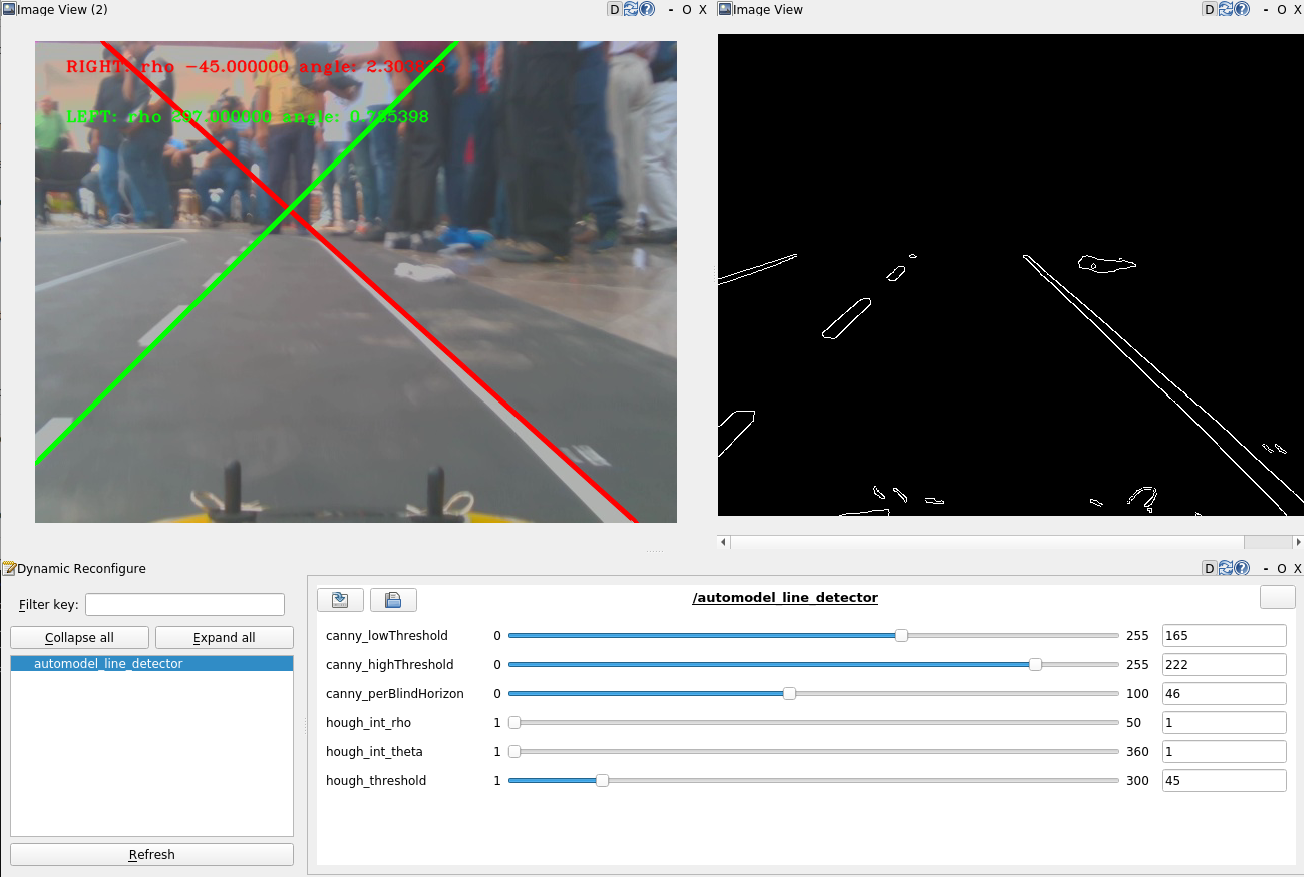
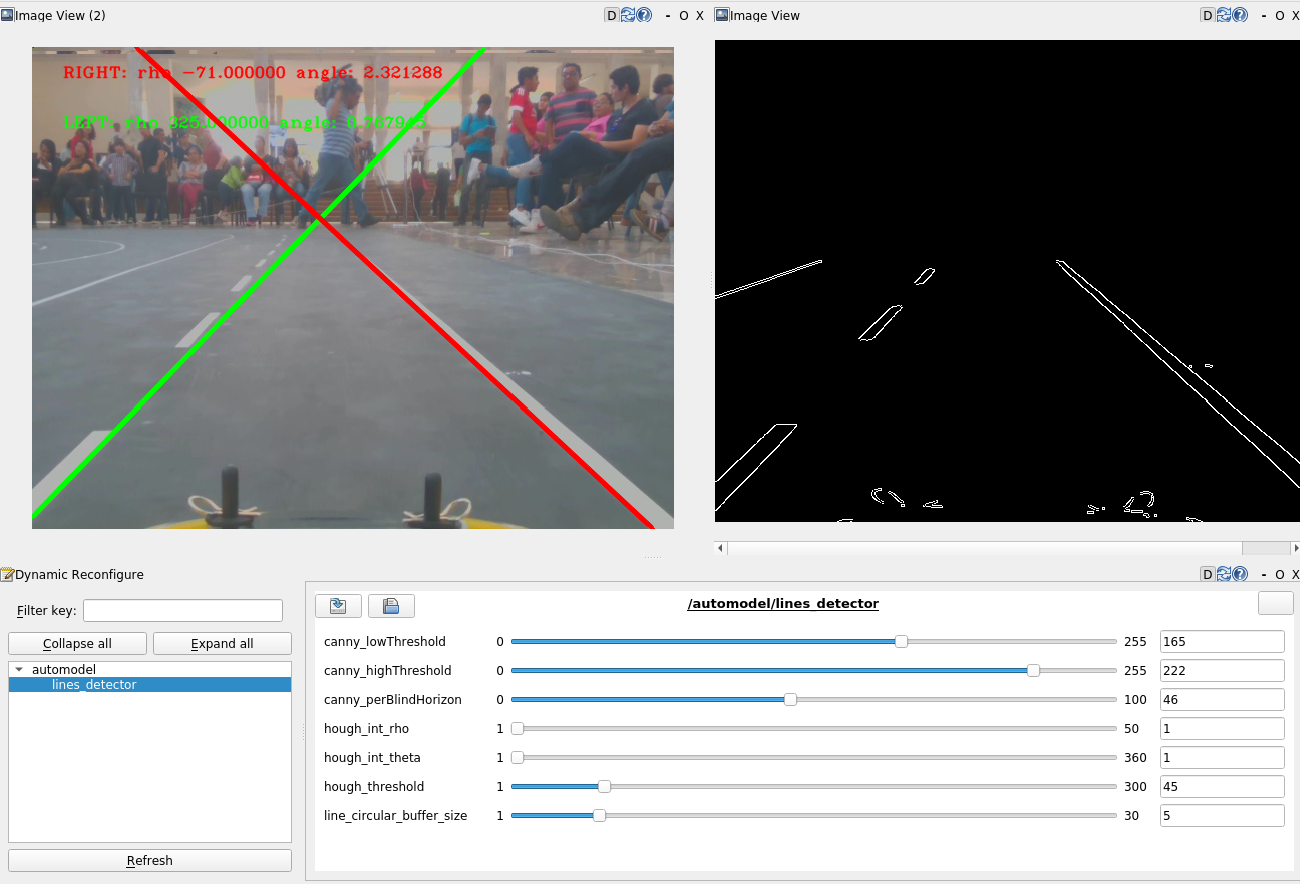
Enhanced organization of files and configurations as defined in good practices

diff --git a/src/lines_detector/src/lines_detector.cpp b/src/lines_detector/src/lines_detector.cpp
@@ -1,4 +1,4 @@
-// automodel_line_detector.cpp
+// lines_detector.cpp
 //
 // Implementation of the AutomodelLineDetector class.
 // Handles line detection using OpenCV and ROS.
@@ -6,7 +6,7 @@
 // Author: Abel Pacheco Ortega
 // Created: Mar 16, 2018
 
-#include "automodel_line_detector.hpp"
+#include "lines_detector.hpp"
 
 #include <image_transport/image_transport.h>
 #include <ros/package.h>
@@ -15,15 +15,15 @@
 #include "std_msgs/Float32MultiArray.h"
 
 namespace automodel {
-namespace line_detector {
+namespace lines_detector {
 
-AutomodelLineDetector::AutomodelLineDetector(ros::NodeHandle &nodeHandle)
+AutomodelLinesDetector::AutomodelLinesDetector(ros::NodeHandle &nodeHandle)
     : nh_(nodeHandle) {
   readParameters();
 
   image_transport::ImageTransport it(nh_);
   subscriber_ =
-      it.subscribe(image_topic_, 1, &AutomodelLineDetector::detect, this);
+      it.subscribe(image_topic_, 1, &AutomodelLinesDetector::detect, this);
 
   publisher_left_line_ = nh_.advertise<std_msgs::Float32MultiArray>("left", 1);
   publisher_right_line_ =
@@ -37,15 +37,14 @@ AutomodelLineDetector::AutomodelLineDetector(ros::NodeHandle &nodeHandle)
   cb_lines_right_ =
       boost::circular_buffer<cv::Vec2f>(line_circular_buffer_size_);
 
-  dynamic_reconfigure::Server<
-      automodel_line_detector::LineDetectorConfig>::CallbackType f;
+  dynamic_reconfigure::Server<dynamic::LinesDetectorConfig>::CallbackType f;
 
-  f = boost::bind(&AutomodelLineDetector::updateParameters, this, _1, _2);
+  f = boost::bind(&AutomodelLinesDetector::updateParameters, this, _1, _2);
   config_server_.setCallback(f);
 }
 
-void AutomodelLineDetector::updateParameters(
-    automodel_line_detector::LineDetectorConfig &config, uint32_t level) {
+void AutomodelLinesDetector::updateParameters(
+    dynamic::LinesDetectorConfig &config, uint32_t level) {
   // Update your internal parameters
   canny_percentage_horizon_ = config.canny_perBlindHorizon;
   canny_low_thresh_ = config.canny_lowThreshold;
@@ -61,11 +60,11 @@ void AutomodelLineDetector::updateParameters(
   }
 }
 
-AutomodelLineDetector::~AutomodelLineDetector() {
+AutomodelLinesDetector::~AutomodelLinesDetector() {
   ROS_INFO_STREAM("Destroying Automodel Line Detector");
 }
 
-void AutomodelLineDetector::detect(const sensor_msgs::ImageConstPtr &msg) {
+void AutomodelLinesDetector::detect(const sensor_msgs::ImageConstPtr &msg) {
   auto cv_ptr = cv_bridge::toCvCopy(msg, sensor_msgs::image_encodings::BGR8);
   cv::Mat imgColor = cv_ptr->image;
   cv::Mat imgMono;
@@ -79,7 +78,7 @@ void AutomodelLineDetector::detect(const sensor_msgs::ImageConstPtr &msg) {
   publishImageDetectedEdges(edges);
 }
 
-cv::Mat AutomodelLineDetector::preprocessImage(const cv::Mat &imgMono) {
+cv::Mat AutomodelLinesDetector::preprocessImage(const cv::Mat &imgMono) {
   cv::Mat maskWhite, maskedImage;
   inRange(imgMono, canny_low_thresh_, canny_high_thresh_, maskWhite);
   bitwise_and(imgMono, maskWhite, maskedImage);
@@ -94,7 +93,7 @@ cv::Mat AutomodelLineDetector::preprocessImage(const cv::Mat &imgMono) {
   return edges;
 }
 
-void AutomodelLineDetector::detectLines(const cv::Mat &edges) {
+void AutomodelLinesDetector::detectLines(const cv::Mat &edges) {
   rho_ = hough_int_rho_;
   theta_ = hough_int_theta_ * CV_PI / 180;
 
@@ -124,7 +123,7 @@ void AutomodelLineDetector::detectLines(const cv::Mat &edges) {
   if (!foundRight && !cb_lines_right_.empty()) cb_lines_right_.pop_front();
 }
 
-std::optional<cv::Vec2f> AutomodelLineDetector::computeAverageLine(
+std::optional<cv::Vec2f> AutomodelLinesDetector::computeAverageLine(
     const boost::circular_buffer<cv::Vec2f> &cbLines) const {
   if (cbLines.empty()) return std::nullopt;
 
@@ -136,7 +135,7 @@ std::optional<cv::Vec2f> AutomodelLineDetector::computeAverageLine(
   return cv::Vec2f(rho_sum / cbLines.size(), theta_sum / cbLines.size());
 }
 
-void AutomodelLineDetector::publishDetectedLines() {
+void AutomodelLinesDetector::publishDetectedLines() {
   auto publish_line = [](ros::Publisher &pub, const cv::Vec2f &detectedLine,
                          const std::string &label) {
     const float kRho = detectedLine[0];
@@ -162,7 +161,7 @@ void AutomodelLineDetector::publishDetectedLines() {
   }
 }
 
-void AutomodelLineDetector::publishImageDetectedLines(const cv::Mat &image) {
+void AutomodelLinesDetector::publishImageDetectedLines(const cv::Mat &image) {
   if (publisher_lines_image_.getNumSubscribers() == 0) return;
 
   cv::Mat imageColor = image.clone();
@@ -199,7 +198,7 @@ void AutomodelLineDetector::publishImageDetectedLines(const cv::Mat &image) {
   publisher_lines_image_.publish(imgMsg);
 }
 
-void AutomodelLineDetector::publishImageDetectedEdges(const cv::Mat &image) {
+void AutomodelLinesDetector::publishImageDetectedEdges(const cv::Mat &image) {
   if (publisher_edges_image_.getNumSubscribers() == 0) return;
 
   sensor_msgs::ImagePtr imgMsg =
@@ -209,7 +208,7 @@ void AutomodelLineDetector::publishImageDetectedEdges(const cv::Mat &image) {
   publisher_edges_image_.publish(imgMsg);
 }
 
-void AutomodelLineDetector::readParameters() {
+void AutomodelLinesDetector::readParameters() {
   nh_.param("image_topic", image_topic_, std::string("/camera/rgb/image_raw"));
   nh_.param("canny_lowThreshold", canny_low_thresh_, 172);
   nh_.param("canny_highThreshold", canny_high_thresh_, 179);
@@ -229,9 +228,9 @@ void AutomodelLineDetector::readParameters() {
   ROS_INFO_STREAM("Circular Buffer " << line_circular_buffer_size_);
 }
 
-void AutomodelLineDetector::saveParameters() {
-  std::string file = ros::package::getPath("automodel_line_detector") +
-                     "/config/config_new.yaml";
+void AutomodelLinesDetector::saveParameters() {
+  std::string file =
+      ros::package::getPath("lines_detector") + "/config/config_new.yaml";
   cv::FileStorage fs(file, cv::FileStorage::WRITE);
   fs << "image_topic" << image_topic_;
   fs << "canny_lowThreshold" << canny_low_thresh_;
@@ -245,5 +244,5 @@ void AutomodelLineDetector::saveParameters() {
   ROS_WARN_STREAM("File saved at " << file);
   ROS_WARN_STREAM("EDIT AND REPLACE to APPLY!");
 }
-}  // namespace line_detector
+}  // namespace lines_detector
 }  // namespace automodel

diff --git a/src/lines_detector/include/lines_detector.hpp b/src/lines_detector/include/lines_detector.hpp
@@ -1,4 +1,4 @@
-// automodel_line_detector.cpp
+// lines_detector.cpp
 // Header of the AutomodelLineDetector class for line detection using OpenCV and
 // ROS.
 //
@@ -7,21 +7,21 @@
 
 #pragma once
 
-#include <automodel_line_detector/LineDetectorConfig.h>  // auto-generated
 #include <dynamic_reconfigure/server.h>
 #include <image_transport/image_transport.h>
+#include <lines_detector/LinesDetectorConfig.h>  // auto-generated
 #include <ros/ros.h>
 
 #include <boost/circular_buffer.hpp>
 #include <opencv2/core.hpp>
 
 namespace automodel {
-namespace line_detector {
+namespace lines_detector {
 
-class AutomodelLineDetector {
+class AutomodelLinesDetector {
  public:
-  AutomodelLineDetector(ros::NodeHandle &nodeHandle);
-  virtual ~AutomodelLineDetector();
+  AutomodelLinesDetector(ros::NodeHandle &nodeHandle);
+  virtual ~AutomodelLinesDetector();
 
   void detect(const sensor_msgs::ImageConstPtr &);
 
@@ -62,11 +62,9 @@ class AutomodelLineDetector {
   image_transport::Publisher publisher_lines_image_;
   image_transport::Publisher publisher_edges_image_;
 
-  void updateParameters(automodel_line_detector::LineDetectorConfig &config,
-                        uint32_t level);
-  dynamic_reconfigure::Server<automodel_line_detector::LineDetectorConfig>
-      config_server_;
+  void updateParameters(dynamic::LinesDetectorConfig &config, uint32_t level);
+  dynamic_reconfigure::Server<dynamic::LinesDetectorConfig> config_server_;
 };
 
-}  // namespace line_detector
+}  // namespace lines_detector
 }  // namespace automodel

diff --git a/src/lines_detector/src/lines_detector_node.cpp b/src/lines_detector/src/lines_detector_node.cpp
@@ -3,20 +3,20 @@
 #include <iostream>
 #include <opencv2/opencv.hpp>
 
-#include "automodel_line_detector.hpp"
 #include "cv_bridge/cv_bridge.h"
+#include "lines_detector.hpp"
 #include "ros/ros.h"
 #include "sensor_msgs/Image.h"
 
-using namespace automodel::line_detector;
+using namespace automodel::lines_detector;
 
 int main(int argc, char **argv) {
-  ros::init(argc, argv, "automodel_line_detector_node");
+  ros::init(argc, argv, "lines_detector_node");
 
   // node handler
   ros::NodeHandle n("~");
 
-  AutomodelLineDetector lineDetector(n);
+  AutomodelLinesDetector lineDetector(n);
 
   ros::spin();
   return 0;

diff --git a/README.md b/README.md
@@ -1,4 +1,4 @@
-# Automodel line detector
+# Automodel lines detector
 
 <img src="doc/view.png" width="800">
 
@@ -33,15 +33,15 @@ This repository provides of a ROS prototype line detector that outputs vital pos
       rosrun video_publisher video_publisher_node _video_path:=[VIDEO_FILE]
       ```
 
-2. **automodel_line_detector**
+2. **automodel/lines_detector**
 
    Having a point of view (POV) frame, determines de left and right lines that marks the limits of a lane.
    - Published topic:
-     - */automodel/line_detector/left*
+     - */automodel/lines_detector/left*
 
        The detected left line  *sensor_msgs::ImagePtr* message
 
-     - */automodel/line_detector/right*
+     - */automodel/lines_detector/right*
 
        The detected right line  *sensor_msgs::ImagePtr* message
 
@@ -49,25 +49,25 @@ This repository provides of a ROS prototype line detector that outputs vital pos
 
      The parameters intialization is set in the *config/config.yaml* file
 
-     - */automodel/line_detector/image_topic*
+     - */automodel/lines_detector/image_topic*
      
        Determines de topic that is providing with the sequence of frames to analyze
 
 
-     - */automodel/line_detector/canny_lowThreshold* and */automodel/line_detector/canny_highThreshold*
+     - */automodel/lines_detector/canny_lowThreshold* and */automodel/lines_detector/canny_highThreshold*
        
        Indicates the low and high thresholds used in the [canny edge detector](https://ieeexplore.ieee.org/abstract/document/4767851)
 
 
-     - */automodel/line_detector/canny_perBlindHorizon*
+     - */automodel/lines_detector/canny_perBlindHorizon*
        
         From the automodel point of view, not all image is useful to determine the lane lines. This parameter indicated the upper portion of the image that is not considerer for the analysis.
 
 
-     - */automodel/line_detector/hough_int_rho* and */automodel/line_detector/hough_int_theta*
+     - */automodel/lines_detector/hough_int_rho* and */automodel/lines_detector/hough_int_theta*
        A [Hough tranform for lines](https://docs.opencv.org/3.4/d9/db0/tutorial_hough_lines.html) is used on the edge detected to determine the line lanes. This parameter determines the "bins" resolution of the parameters *rho* and *theta* in pixels and degrees respectivelly.
 
-     - */automodel/line_detector/hough_threshold*
+     - */automodel/lines_detector/hough_threshold*
 
        The minimum number of votes in the bins (intersections) to "*detect*" a line with the [Hough tranform for lines](https://docs.opencv.org/3.4/d9/db0/tutorial_hough_lines.html)
 
@@ -115,14 +115,14 @@ docker run -it --rm \
 
 ### Usage
 
-You can download video example video sequence from [here](https://drive.google.com/file/d/18iifPMkTMPiv2NLFfrs0kn1szXALURQu/view?usp=sharing)
+Download video example video sequence from [here](https://drive.google.com/file/d/18iifPMkTMPiv2NLFfrs0kn1szXALURQu/view?usp=sharing) and save it in the *data* folder.
 
-execute inside the container with
+Execute inside the container with
 
 ```bash 
-rosrun video_publisher video_publisher_node _video_path:=[VIDEO_FILE]
+roslaunch lines_detector automodel_lines_detector.launch 
 ```
-the *debug* param is by default adjusted in true. This will showw you three windows where you can observe the output and change the parameter (Note: they are not saved for future execution, so adviced to write them down)
-
 
 ![Reconfiguration app](./doc/debug_window.png)
+
+the *debug* param in the launch file is by default adjusted in true. This will showw you three windows where you can observe the output and change the parameter (Note: they are not saved for future execution, so adviced to write them down)
